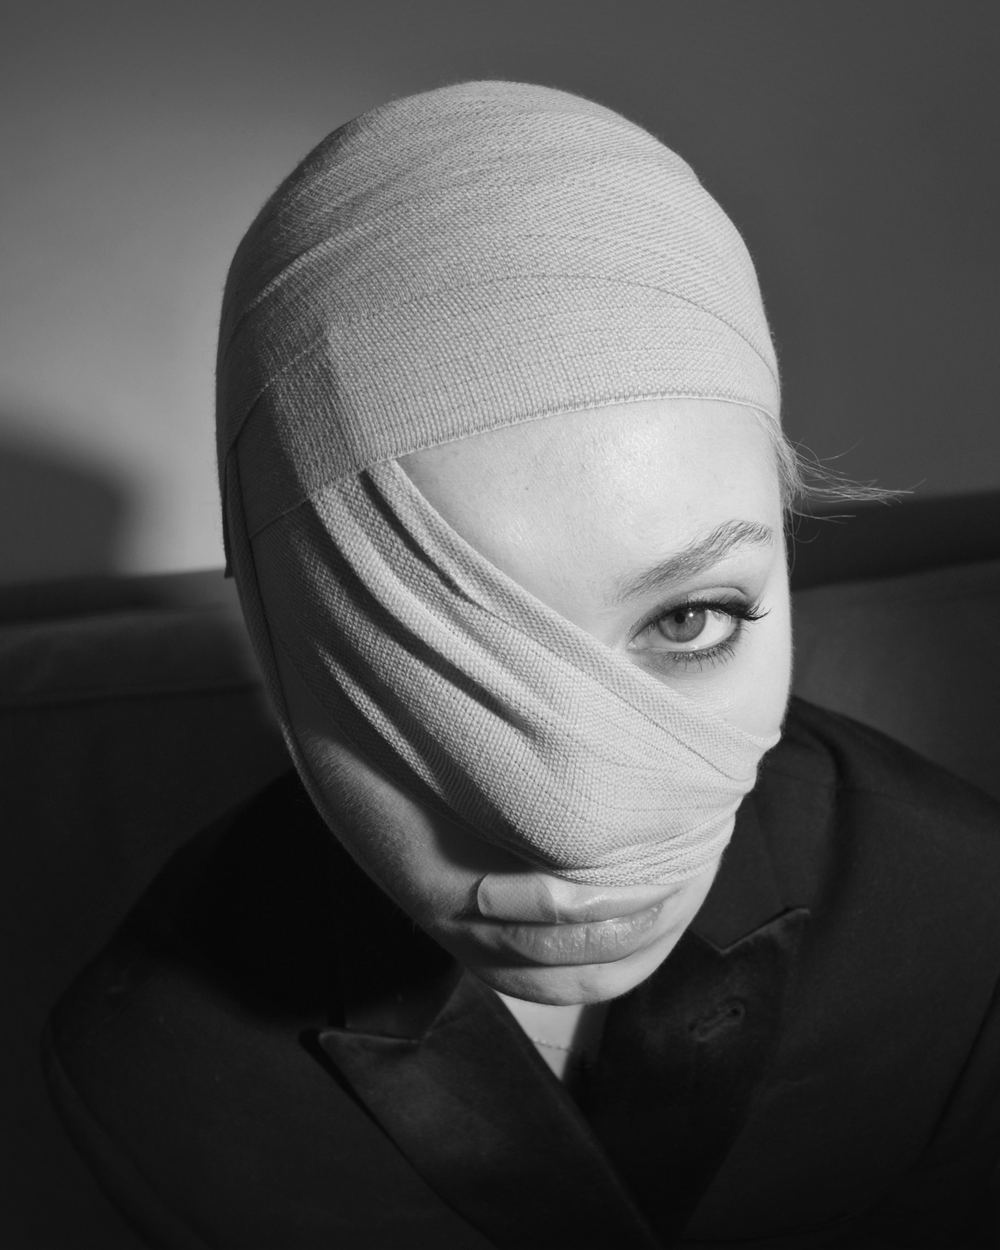
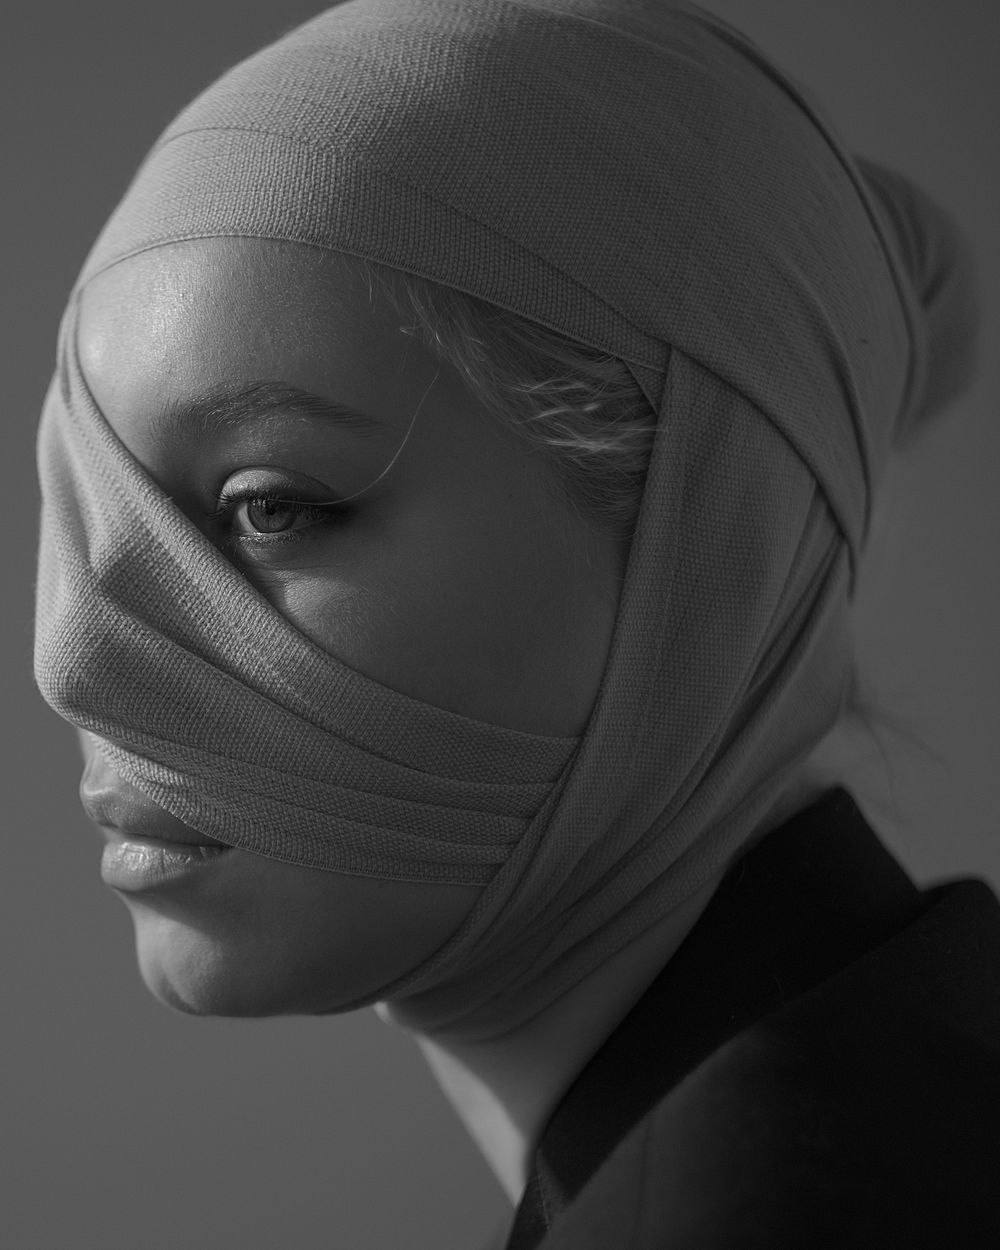
Raise the About text and use the DNG frame for Simonetta
Simonetta's portrait now comes from IMG_0336.DNG — the three-quarter
profile, already 4:5 so no crop was needed.

About panel content moves up to just below the nav. The full 1.5in was not
available: at a typical viewport there is only ~74px of headroom before the
text meets the fixed nav bar, so this takes it as far as it goes.

diff --git a/index.html b/index.html
@@ -244,7 +244,8 @@
     align-items: flex-start;
     justify-content: center;
     text-align: center;
-    padding: clamp(6rem, 22vh, 11rem) var(--gut) clamp(4rem, 10vh, 7rem);
+    /* As high as the content can sit without meeting the fixed nav. */
+    padding: clamp(5.75rem, 13vh, 7rem) var(--gut) clamp(4rem, 10vh, 7rem);
     isolation: isolate;
     clip-path: inset(0);
     background: var(--black);
